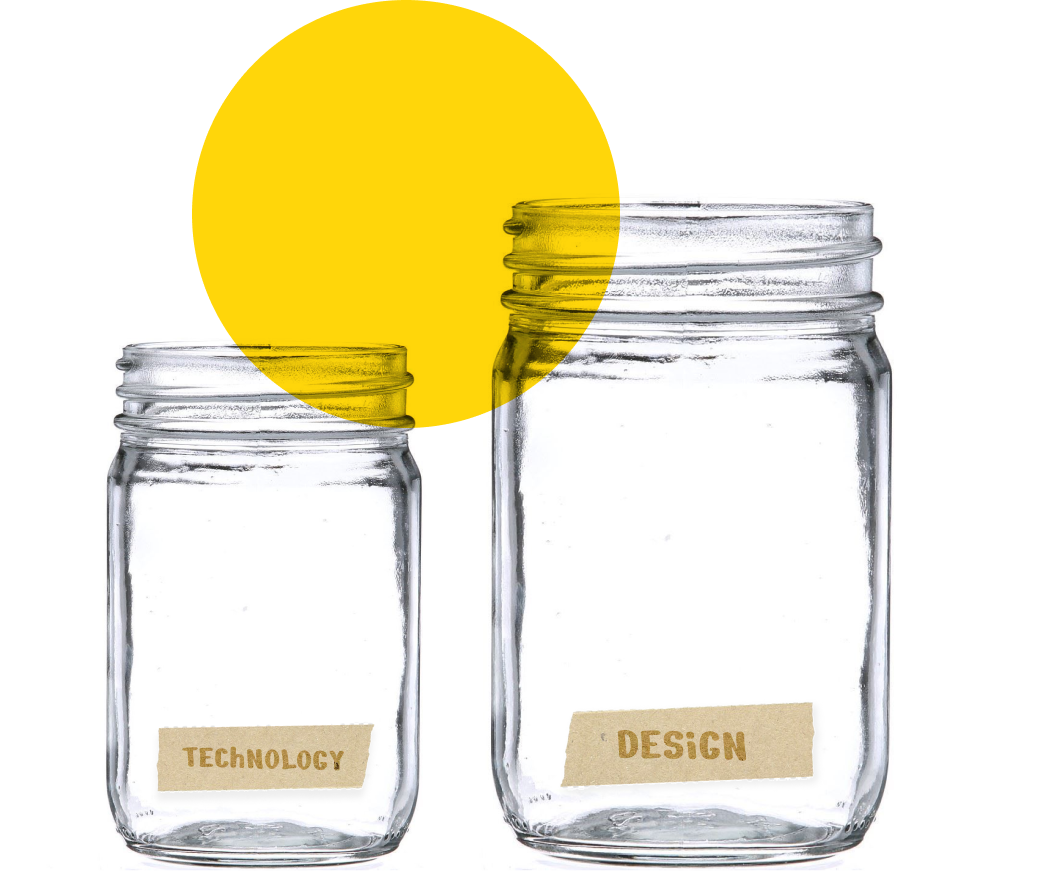
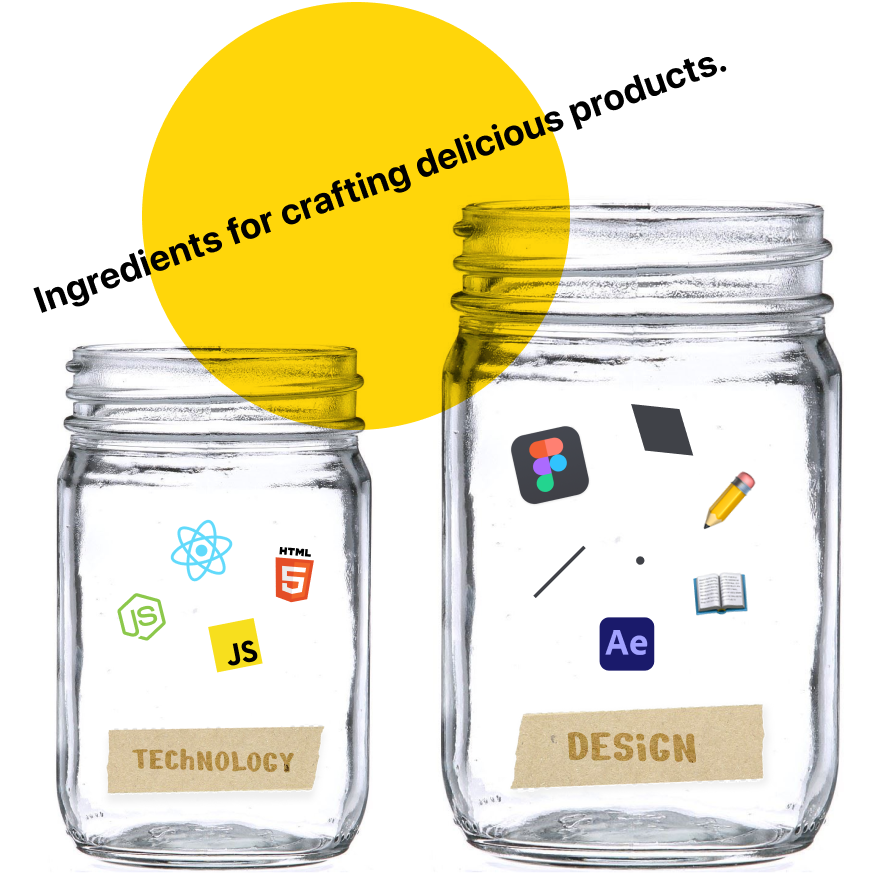
Update jars image

diff --git a/pages/index.js b/pages/index.js
@@ -28,7 +28,7 @@ function HeroComponent() {
         <Image src="/logo.svg" alt="" width={60} height={60} />
       </div>
       <div className="w-full xl:w-1/2 mt-32 xl:mt-[22rem] ">
-        <h1 className="text-3xl text-center xl:text-left leading-9">
+        <h1 className="text-3xl leading-9 text-center xl:text-left">
           Hi, I am Sparsh, a{" "}
           <span className="font-bold underline decoration-4 underline-offset-4 decoration-[#ffd60A]">
             Product Designer
@@ -46,10 +46,10 @@ function HeroComponent() {
 
       <div className="w-full mt-20 xl:mt-0 xl:w-1/2">
         <div className="relative">
-          <div className="text-xl font-bold -rotate-[20deg] absolute z-10 top-20 left-5">
+          {/* Not needed replaced with image. <div className="text-sm sm:text-lg xl:text-xl font-bold -rotate-[20deg] absolute z-10 top-10 left-0 md:top-18 md:left-28 lg:top-24 lg:left-56 xl:top-20 xl:left-5">
             Ingredients for crafting delicious products.
-          </div>
-          <div className="w-2/3 m-auto xl:w-full image-wrapper">
+          </div> */}
+          <div className="w-full m-auto sm:w-2/3 xl:w-[86%] image-wrapper">
             <Image
               src="/jars.png"
               alt="two jars with containing design and tech tool icons"
